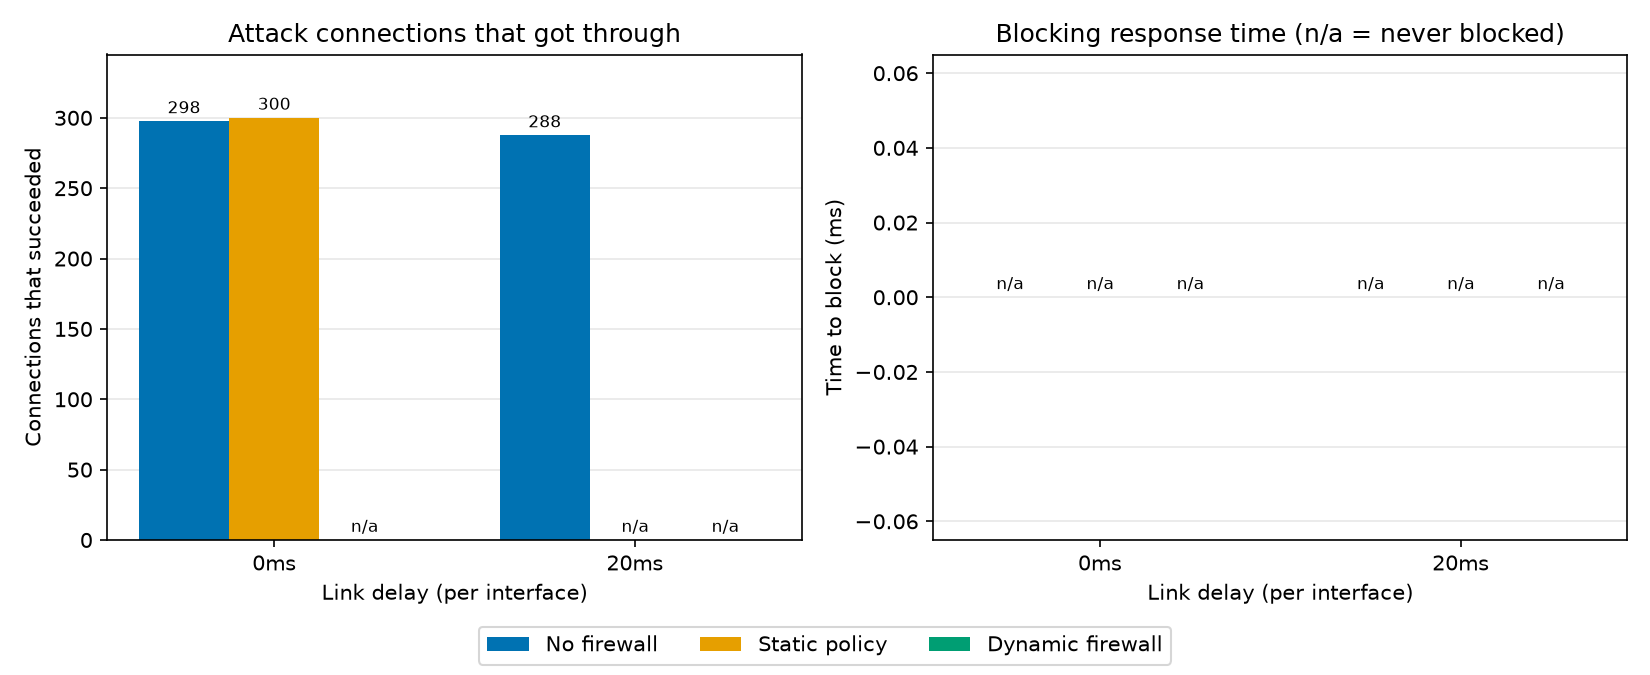
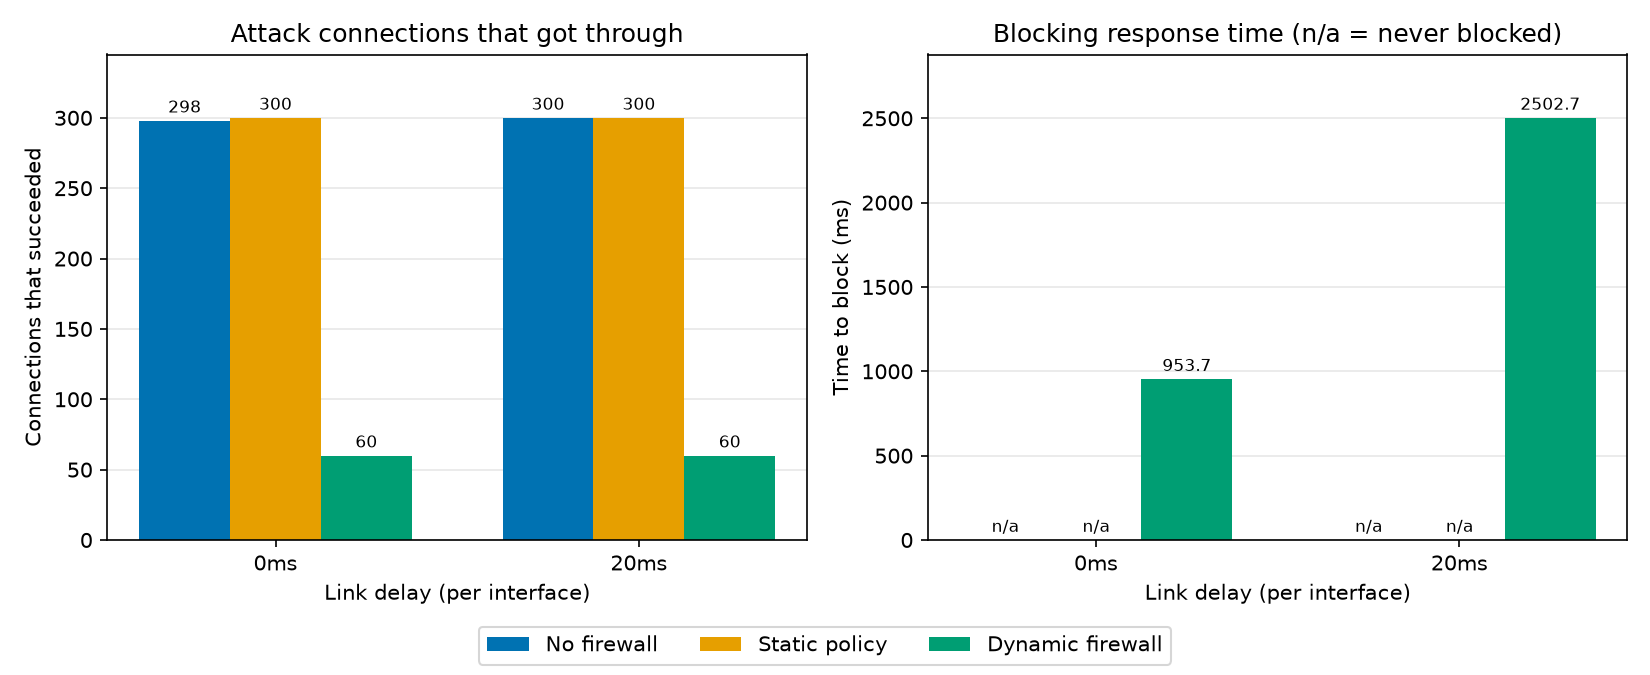
Add performance evaluation results and analysis

diff --git a/docs/architecture.md b/docs/architecture.md
@@ -170,20 +170,72 @@ Charts are produced with `python experiments/plot_results.py`. Exact commands
 are in `experiments/README.md`.
 
 **Expected outcome.** The dynamic firewall should let through only about 20
-attack connections (its limit is 20 new connections in 5 s) while the other
-two setups let all 300 through, and it should block within a fraction of a
-second. The effect on h1's RTT and throughput is expected to be largest for
-the setups that do not block; how large it is in this VM is to be measured.
+attack connections per block period (its limit is 20 new connections in 5 s)
+while the other two setups let all 300 through. The effect on h1's RTT and
+throughput was expected to be largest for the setups that do not block; how
+large it is in this VM was to be measured.
 
-**Results.**
+**Results** (one run per row, from `results/results.csv`).
 
 | Setup | Delay | h1 RTT base / attack (ms) | h1 Mbit/s base / attack | Attack conns succeeded | Block response (ms) |
 |-------|-------|---------------------------|-------------------------|------------------------|---------------------|
-| no_firewall | 0 ms  | _TBD_ | _TBD_ | _TBD_ | n/a |
-| static      | 0 ms  | _TBD_ | _TBD_ | _TBD_ | n/a |
-| dynamic     | 0 ms  | _TBD_ | _TBD_ | _TBD_ | _TBD_ |
-| no_firewall | 20 ms | _TBD_ | _TBD_ | _TBD_ | n/a |
-| static      | 20 ms | _TBD_ | _TBD_ | _TBD_ | n/a |
-| dynamic     | 20 ms | _TBD_ | _TBD_ | _TBD_ | _TBD_ |
+| no_firewall | 0 ms  | 0.47 / 0.10   | 29708 / 28188 | 298 | n/a |
+| static      | 0 ms  | 0.53 / 0.93   | 25205 / 21263 | 300 | n/a |
+| dynamic     | 0 ms  | 1.85 / 6.95   | 6360 / 7295   | 60  | 953.7 |
+| no_firewall | 20 ms | 83.85 / 83.79 | 411 / 397     | 300 | n/a |
+| static      | 20 ms | 88.59 / 87.47 | 850 / 642     | 300 | n/a |
+| dynamic     | 20 ms | 88.81 / 86.10 | 702 / 575     | 60  | 2502.7 |
 
-_Discussion of the results to be added after the runs._
+![h1 RTT and throughput during the attack](../results/results_h1_under_attack.png)
+
+*Figure 1. h1's average round-trip time and iperf throughput while h4 floods
+h5, for each setup and delay (throughput axis is logarithmic).*
+
+![Attack connections that got through and blocking response time](../results/results_attack_and_block.png)
+
+*Figure 2. Attack connections that completed (out of 300) and the time the
+dynamic firewall needed to block h4.*
+
+**Analysis.**
+
+- **The flood was cut by about 80%.** With no firewall or a static policy
+  almost all 300 attack connections succeeded (298 to 300). With the dynamic
+  firewall only 60 did, at both delays.
+- **Why 60 and not 20.** The attack ran for about 75 to 79 s and a block
+  lasts 30 s. The attacker was blocked after about 20 connections, the rule
+  expired by itself, it got another 20 through, was blocked again, and so on:
+  about three block/recover cycles of roughly 20 connections each. This shows
+  the automatic recovery (hard timeout plus flow-removed notification) working
+  repeatedly, and that the firewall keeps limiting a persistent attacker
+  instead of only blocking it once.
+- **Blocking response time: 953.7 ms at 0 ms delay and 2502.7 ms at 20 ms.**
+  Most of this is the time the attacker needs to reach the threshold (21 new
+  connections in 5 s), not the controller's processing time. The attacker
+  opens connections one after another, and each must wait for the TCP
+  handshake. At 0 ms it manages roughly 22 connections per second; at 20 ms
+  the longer round trip slows it to about 8 to 9 per second, so the threshold
+  is reached later.
+- **h1's RTT and throughput: no clear difference.** The differences between
+  setups are small and within the noise of a VM; with one run per
+  row nothing firm can be concluded. For example, throughput without any
+  attack already differs between setups at the same delay (411, 850 and 702
+  Mbit/s at 20 ms), which is as large as any change caused by the attack. The
+  RTT at 20 ms stays between 83.8 and 88.8 ms in every case. The one larger
+  jump, the dynamic firewall at 0 ms (1.85 to 6.95 ms), is still a few
+  milliseconds and could be noise or the controller being busy blocking.
+  This is expected from the design: once a connection is set up, its packets
+  match a flow rule in the switch and no longer pass through the controller,
+  so an attack on other connections barely touches h1's established traffic.
+  The benefit of the dynamic firewall therefore shows up as fewer attack
+  connections and a protected server, not as a measurable gain for h1 here.
+- **Trade-off.** The static and dynamic firewalls use one rule per connection,
+  so every new connection goes to the controller once. The no-firewall setup
+  uses MAC-based rules, which cover all connections between two hosts after
+  the first packet, so it avoids this cost. The price of seeing each
+  connection is what allows the firewall to count connections, apply the
+  policy, and block a flooding source.
+
+**Limits of the experiment.** One run per setup and delay, in a single VM
+where the attacker, switch, controller and measurements share the same CPU.
+Repeating each run several times would allow averages and a spread to be
+reported.
